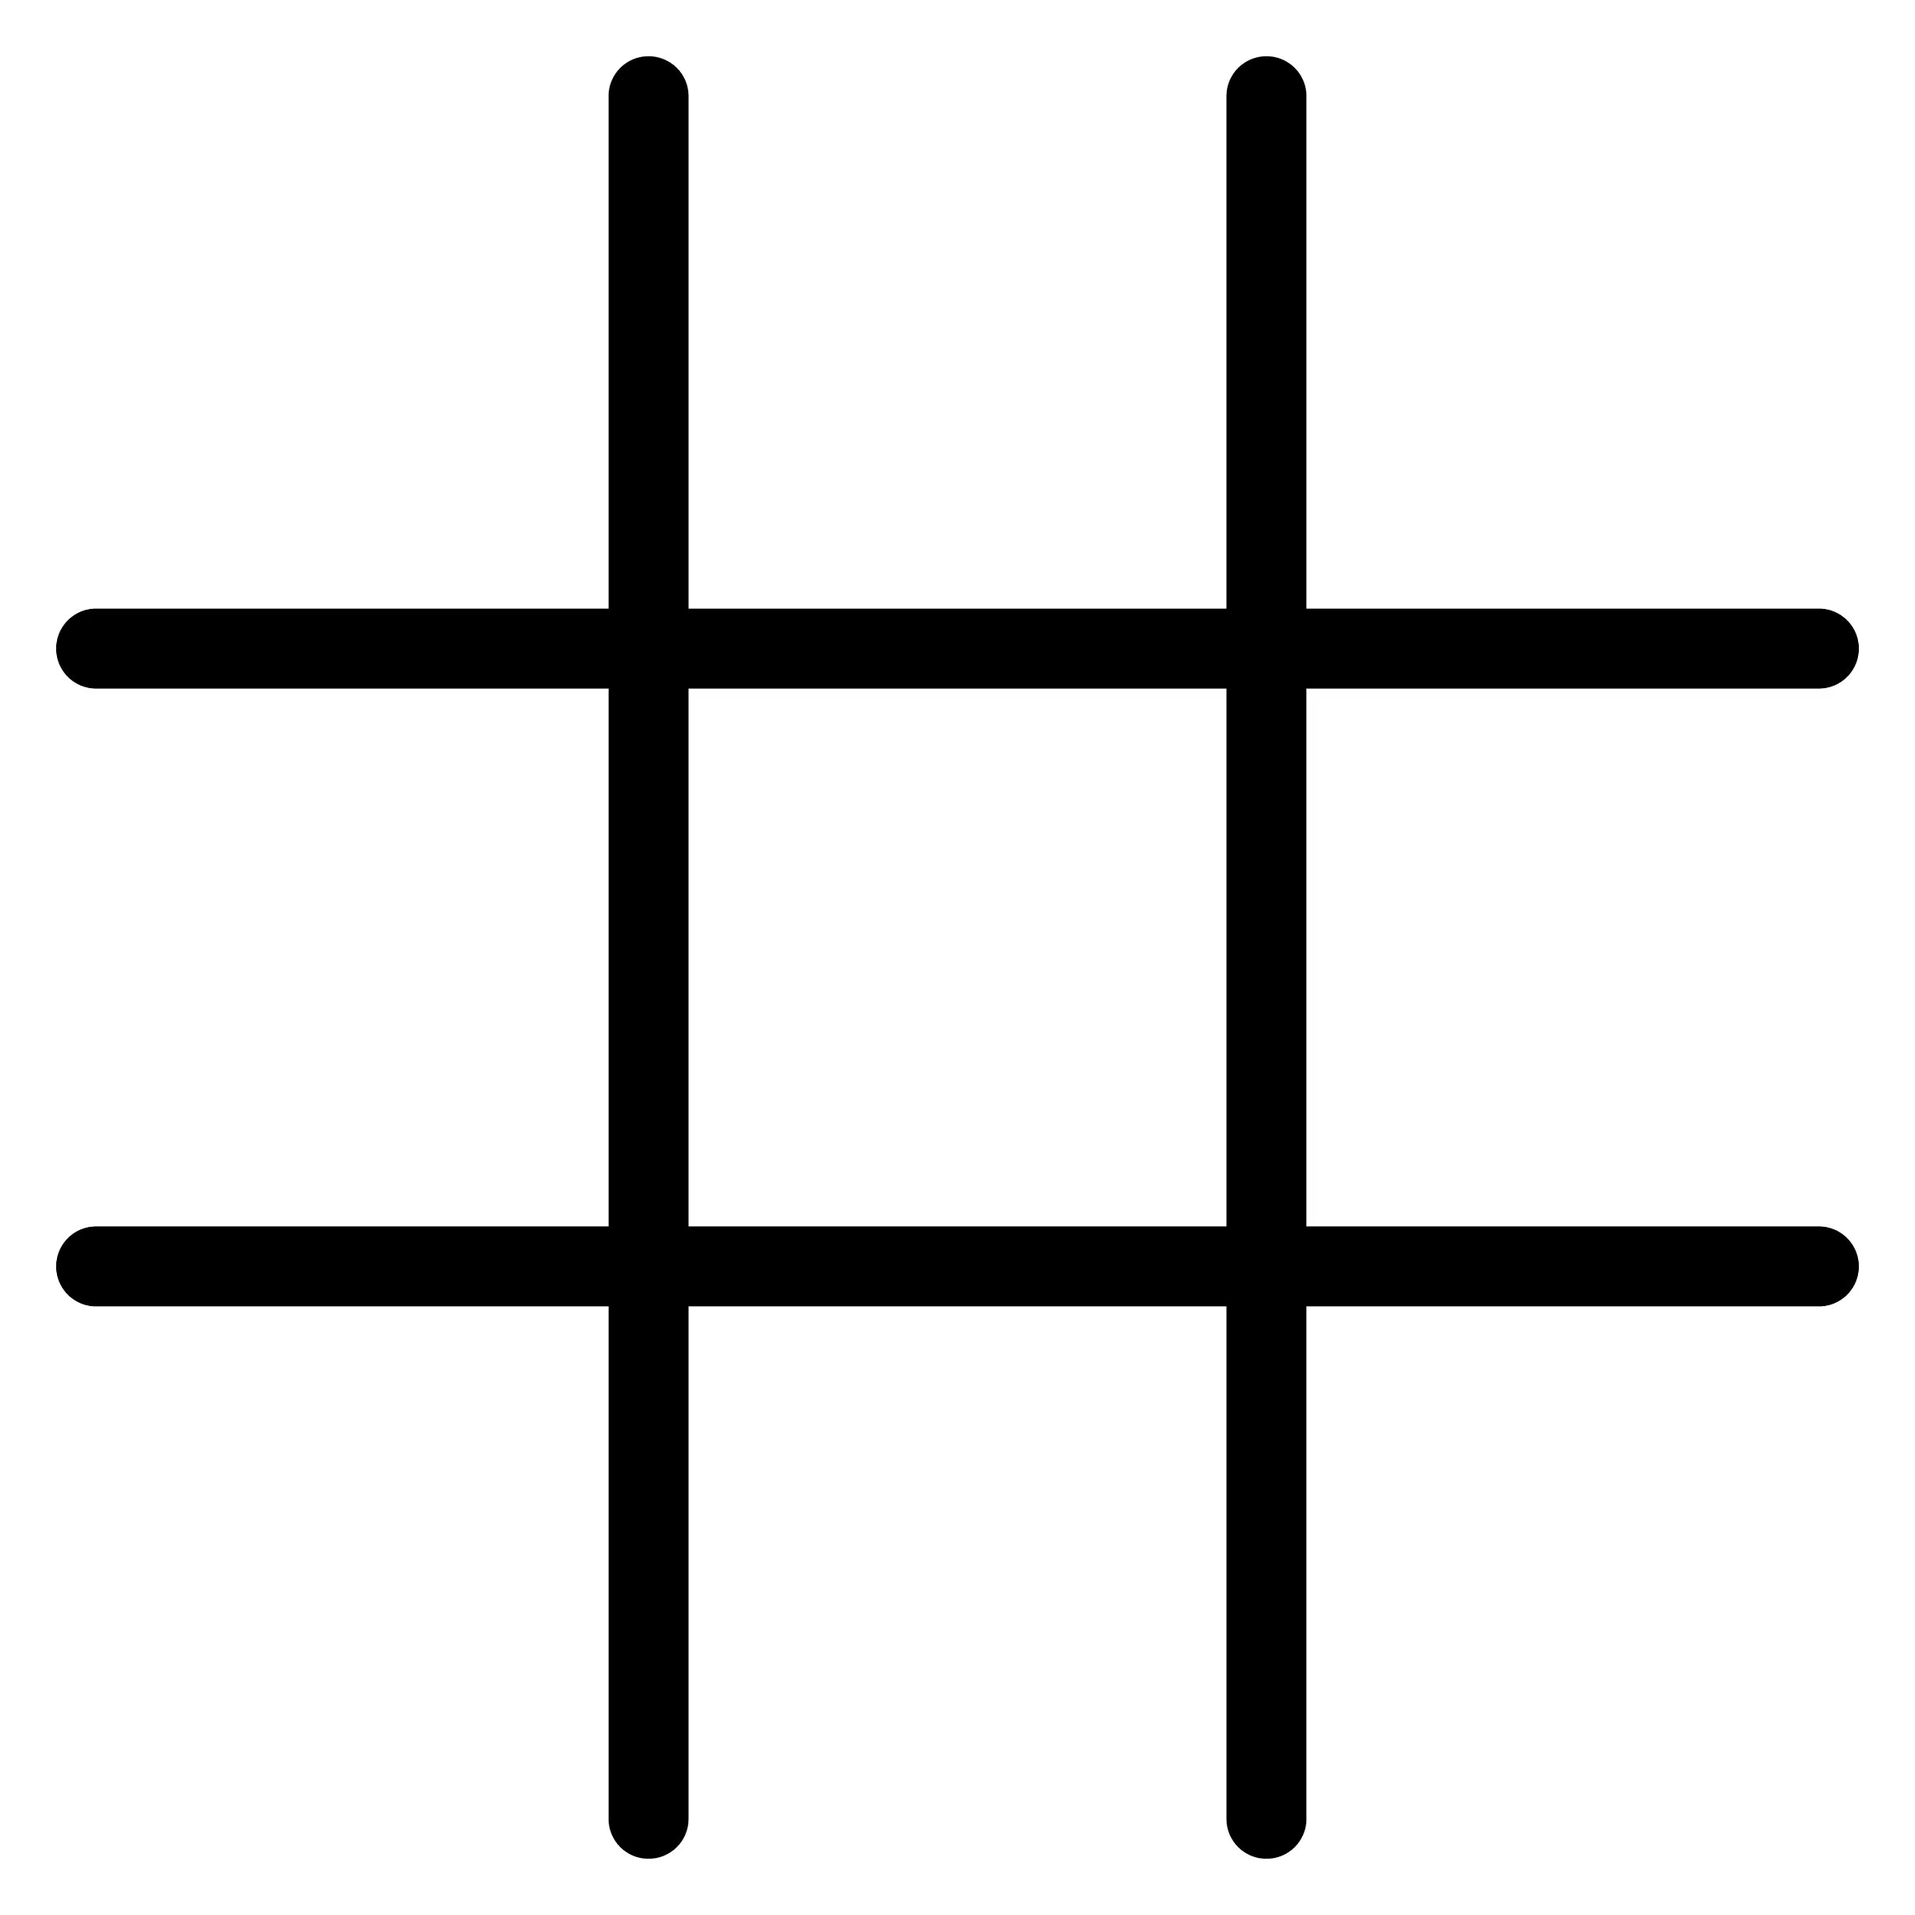
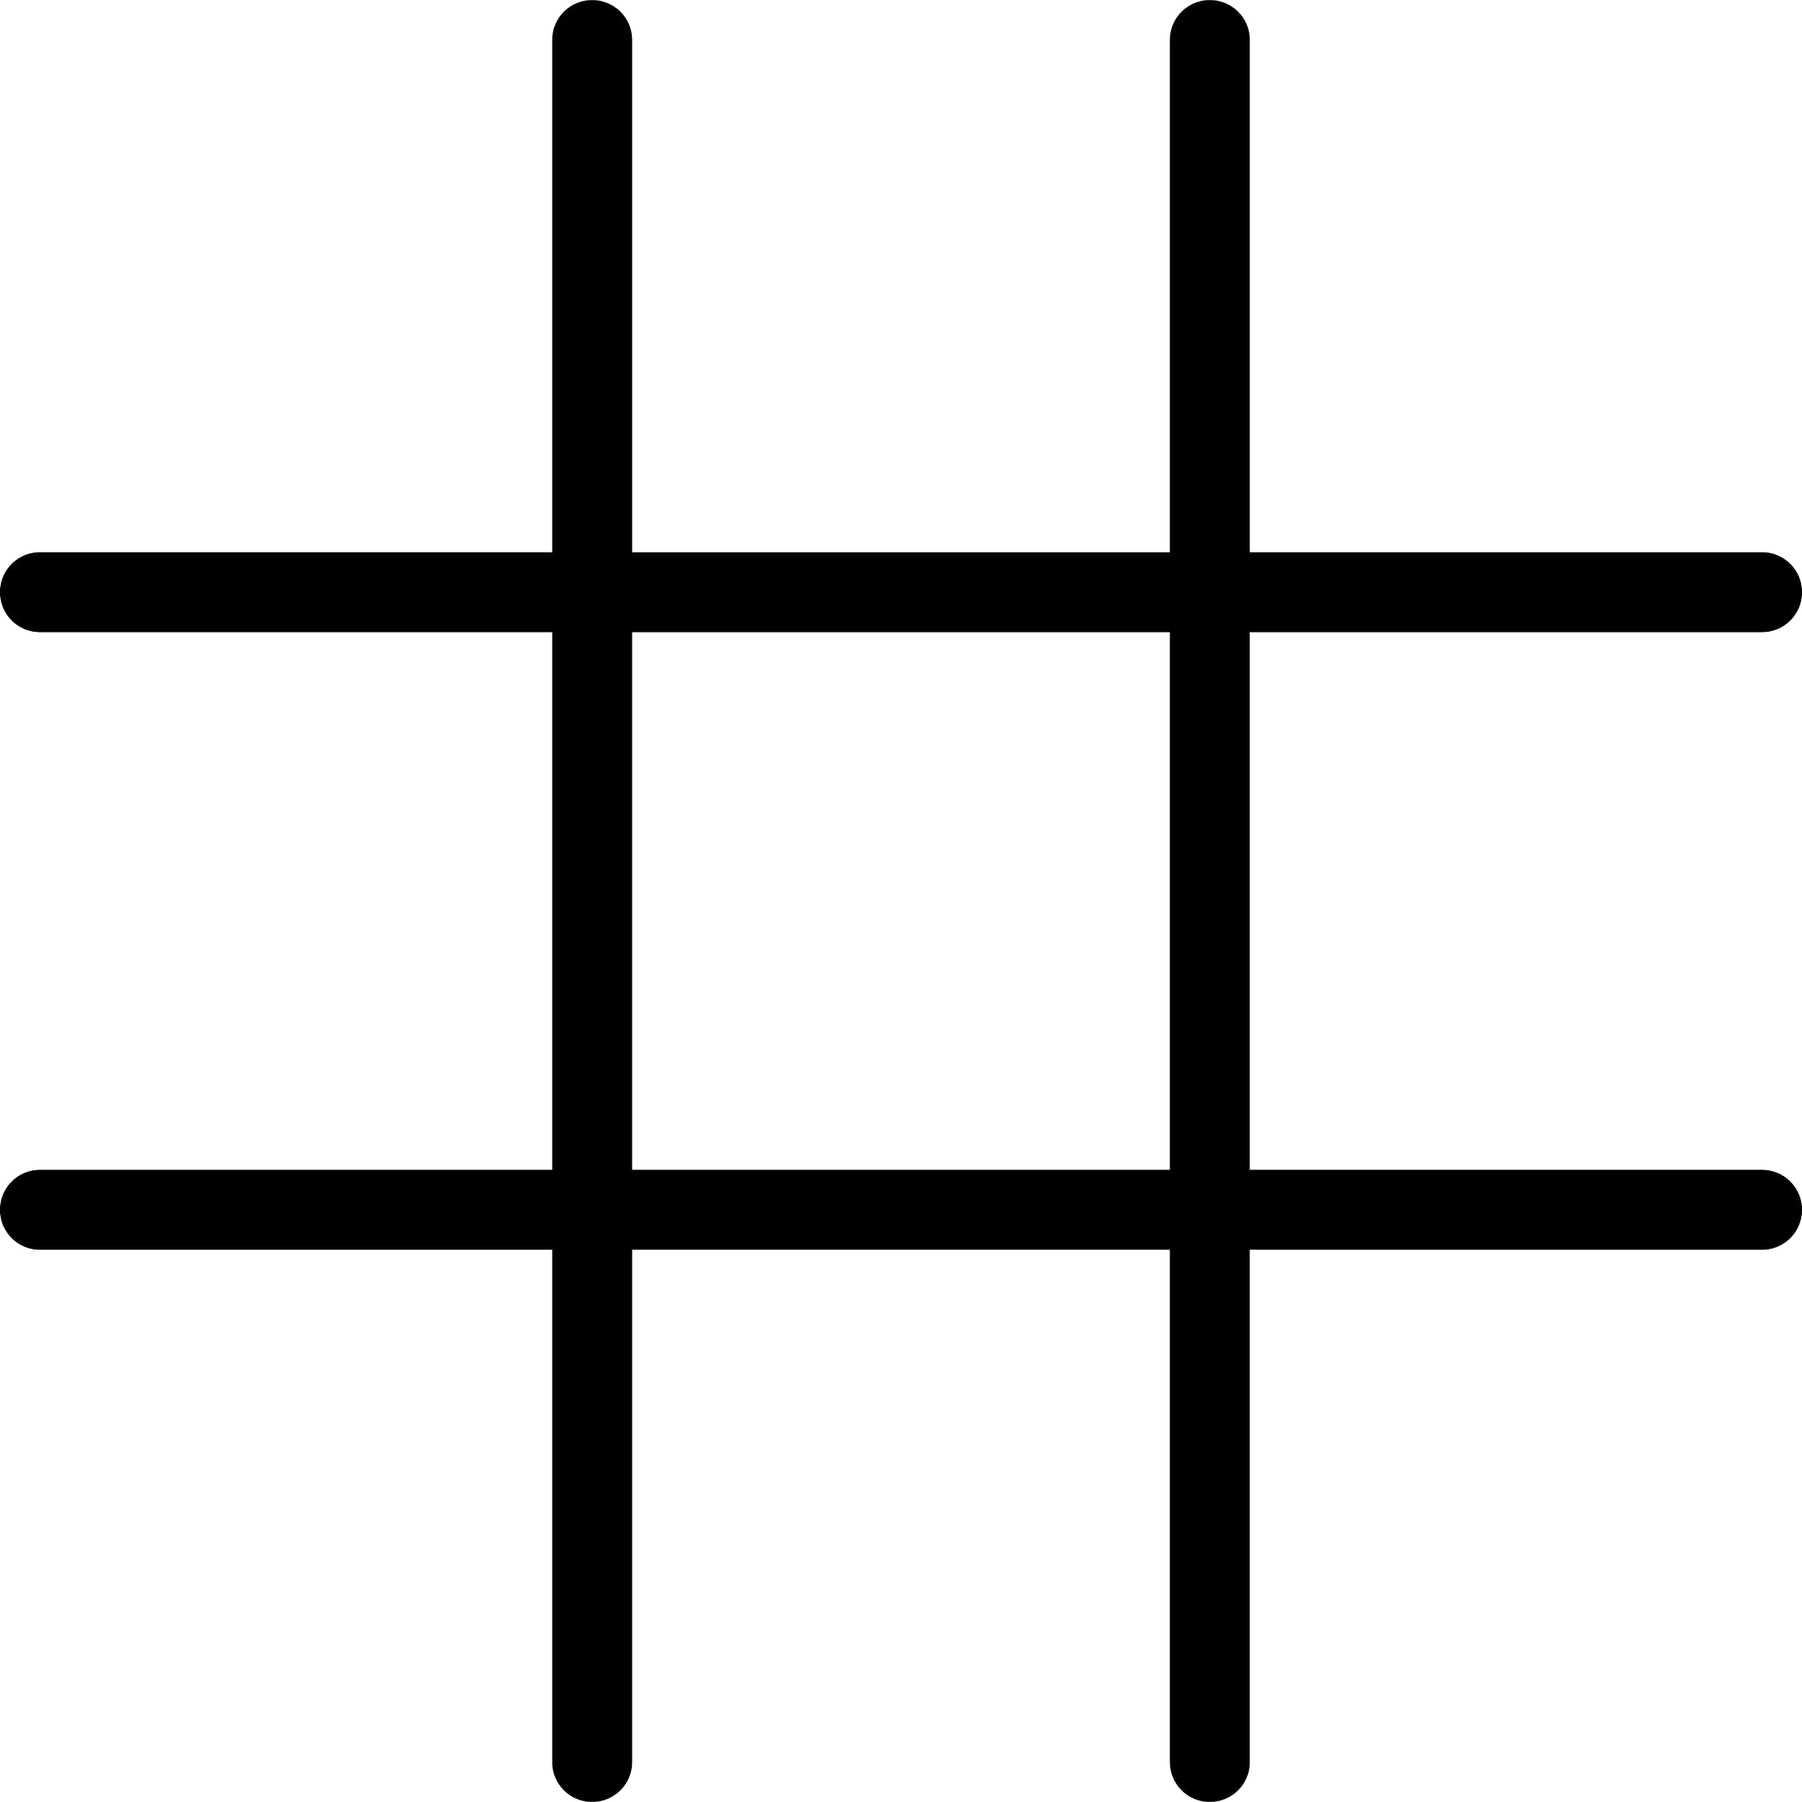
fixed image, might switch to surfaces now

Changed region(s): [[0.0, 0.0, 1.0, 1.0]]

diff --git a/src/game.py b/src/game.py
@@ -1,3 +1,11 @@
+"""
+game.py
+
+the game
+i plan to make it so in the top left it says whose turn it currently is
+i plan to make it zoom in on whatever is tile is being actively used
+^ this zoom in feature means we have to implement a camera now... sigh.
+"""
 import pygame
 import ui
 from ui import CUColor
@@ -15,7 +23,8 @@ class TicTacToe:
     TicTacToe Object
     Handles the micro TicTacToe parts, simplifies coding
     """
-    def __init__(self):
+    def __init__(self):  # TODO: put more data in the __init__ class rather than the draw class
+        # TODO: switch to surfaces? it would be better for scaling than images and would allow more features than raw images (hit boxes, etc)
         self.state = [
             [PossibleObjects.EMPTY, PossibleObjects.EMPTY, PossibleObjects.EMPTY],
             [PossibleObjects.EMPTY, PossibleObjects.EMPTY, PossibleObjects.EMPTY],
@@ -24,10 +33,13 @@ class TicTacToe:
 
         self.victory = PossibleObjects.EMPTY
 
+        self.last_drawn = (-1, -1)
+        self.size = (-1, -1)
+
     def update_state(self, row, col, result):
         self.state[row][col] = result
 
-    def draw(self, screen: pygame.Surface, image_tictactoe, image_x, image_o, pos_x, pos_y):
+    def draw(self, screen: pygame.Surface, image_tictactoe: pygame.Surface, image_x, image_o, pos_x, pos_y):
         screen.blit(image_tictactoe, (pos_x, pos_y))
         for y, row in enumerate(self.state):
             for x, obj in enumerate(row):
@@ -40,7 +52,16 @@ class TicTacToe:
                 elif obj == PossibleObjects.O:
                     screen.blit(image_o, (x * 100, y * 100))
 
+        self.last_drawn = (pos_x, pos_y)
+        self.size = image_tictactoe.size
+
+    def in_hitbox(self, offset, mx, my):
+        hitbox = pygame.Rect(self.last_drawn[0] - offset, self.last_drawn[1] - offset, self.size[0], self.size[1])
+
     def __repr__(self):
+        """
+        Useful for debugging, prints the current values exactly
+        """
         return f"""
 {self.state[0][0].value} {self.state[0][1].value} {self.state[0][2].value}
 {self.state[1][0].value} {self.state[1][1].value} {self.state[1][2].value}
@@ -125,7 +146,8 @@ class Game:
 
         # TODO: fix how the images aren't scaled correctly, find good values, also make image bliting work for X's and O's
         current = '\\'.join(__file__.split('\\')[:-1])
-        self.IMAGE_TicTacToe = pygame.transform.scale(pygame.image.load(f"{current}/assets/TicTacToeBoard.png"), (125, 125))
+        self.IMAGE_TicTacToe = pygame.transform.scale(pygame.image.load(f"{current}/assets/TicTacToeBoard.png"), (150, 150))
+        self.IMAGE_TicTacToeMegaBoard = pygame.transform.scale(pygame.image.load(f"{current}/assets/TicTacToeBoard.png"), (600, 600))
         self.IMAGE_TicX = pygame.transform.scale(pygame.image.load(f"{current}/assets/TicTacToeX.png"), (100, 100))
         self.IMAGE_TicO = pygame.transform.scale(pygame.image.load(f"{current}/assets/TicTacToeO.png"), (100, 100))
 
@@ -207,19 +229,25 @@ class Game:
 
     def run(self):
         while True:
+            self.screen.tick()
+
             events = pygame.event.get()
             for event in events:
                 if event.type == pygame.QUIT:
                     self.screen.close(kill=True)
 
-            self.screen.fill(CUColor.BLACK())
+            self.screen.fill(CUColor.WHITE())
+
+            offset = 15
 
             for y, row in enumerate(self.game_list):
                 for x, obj in enumerate(row):
                     # we are using self.screen.surface rather than self.screen.draw() bc
                     # I would rather not implement that in the UI lib and implement it in the actual code
                     print(x * 50, y * 50)
-                    obj.draw(self.screen.surface, self.IMAGE_TicTacToe, self.IMAGE_TicX, self.IMAGE_TicO, 25 + x * 210, 25 + y * 210)
+                    obj.draw(self.screen.surface, self.IMAGE_TicTacToe, self.IMAGE_TicX, self.IMAGE_TicO, offset + x * 210, offset + y * 210)
+
+            self.screen.draw(self.IMAGE_TicTacToeMegaBoard, (0, 0))
 
             pygame.display.flip()
 

diff --git a/src/menu.py b/src/menu.py
@@ -17,7 +17,7 @@ class Menu:
                 if event.type == pygame.QUIT:
                     self.screen.close(kill=True)
 
-            self.screen.fill(CUColor.WHITE())
+            self.screen.fill(CUColor.BLUE())
 
 
 
